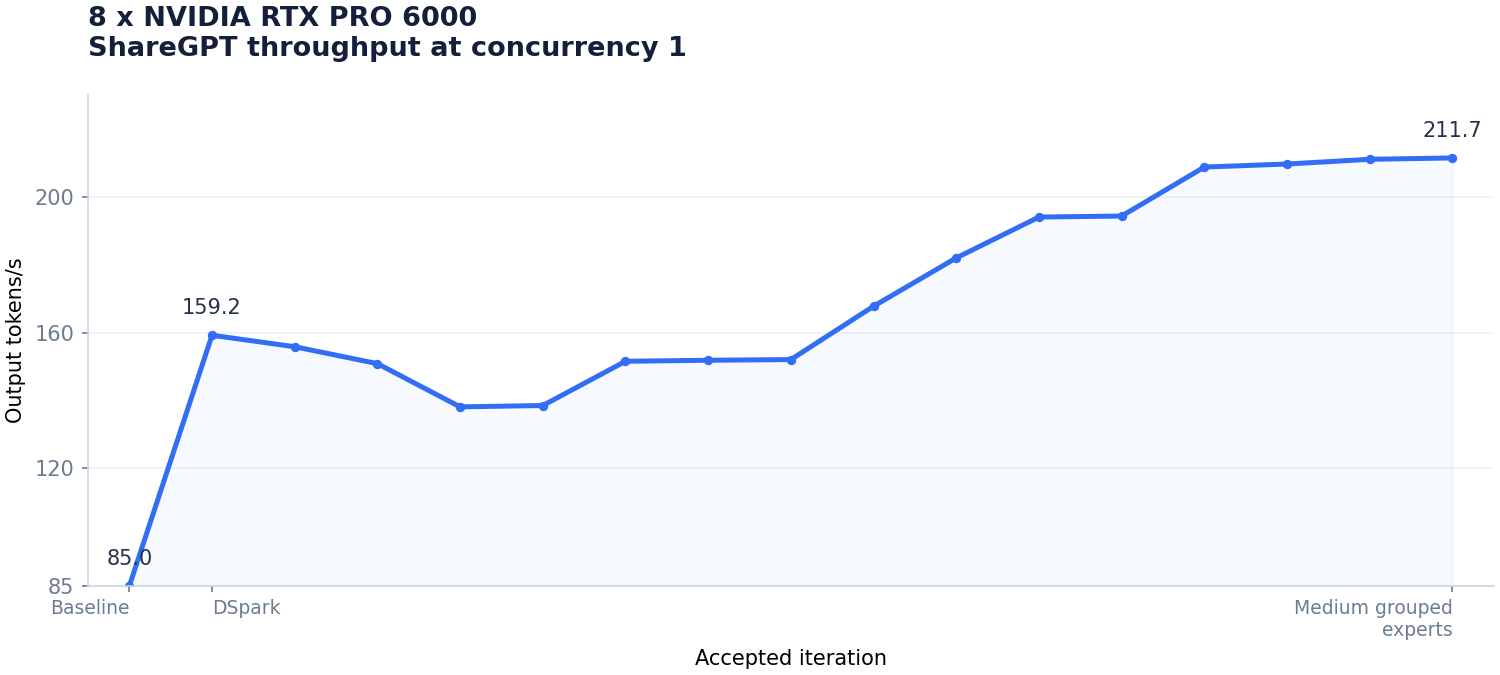
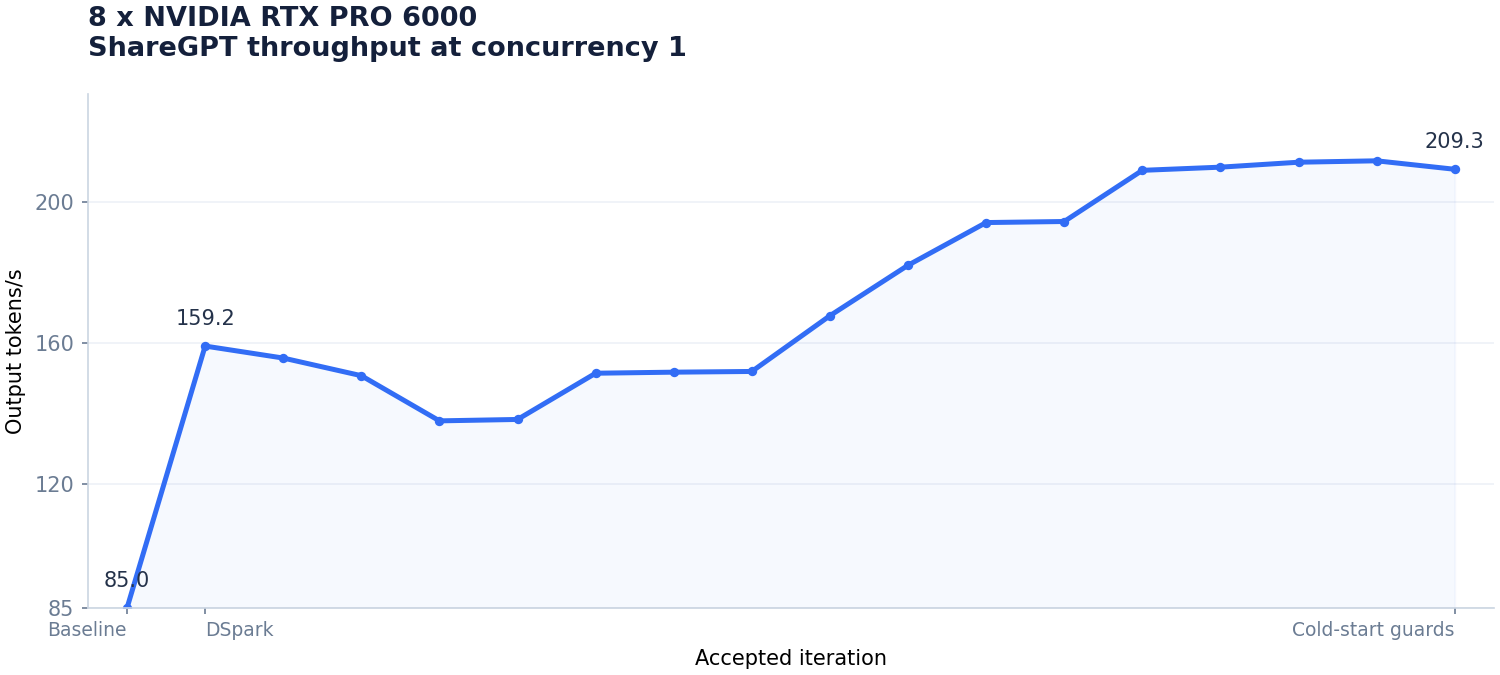
Handle cold collective startup

diff --git a/8-nvidia-rtx-pro-6000/CHANGELOG.md b/8-nvidia-rtx-pro-6000/CHANGELOG.md
@@ -4,10 +4,10 @@ The patch is cumulative against `vllm/vllm-openai:v0.32.0`; every working milest
 
 FlashInfer 0.7.1 replaces the bundled 0.7.0.post1 for runtime page-size support, and both the sm120 compatibility patch and `--block-size 64` are required.
 
-## 17. Medium grouped experts
+## 18. Cold-start guards
 
-- Extend the grouped expert kernels in diff.patch from 16 to 96 tokens to avoid DeepGEMM's 128-row padding for medium batches.
-- Scale routing metadata with the route count and use 8-row GEMM tiles through 48 tokens and 32-row tiles above 48 to keep repeated expert routes efficient.
+- Extend the host collective's bounded peer wait so cold kernel compilation on one rank does not abort the others.
+- Require the checkpoint's 384-entry expert map before using the target MoE fast path to avoid unsupported routing layouts under TP + DP.
 
 Requirements, on a fresh vLLM image:
 
@@ -35,20 +35,20 @@ vllm serve deepseek-ai/DeepSeek-V4.1-Flash-1017 \
     --reasoning-parser deepseek_v41 \
     --mm-encoder-tp-mode data \
     --block-size 64 \
-    --speculative-config '{"method":"dspark","num_speculative_tokens":3,"revision":"1bae0e1088993b9b82de08f59de5be5a34e42170","enable_adaptive_verification":true,"use_local_argmax_reduction":true}' \
+    --speculative-config '{"method": "dspark", "num_speculative_tokens": 3, "revision": "1bae0e1088993b9b82de08f59de5be5a34e42170", "enable_adaptive_verification": true, "use_local_argmax_reduction": true}' \
     --enable-expert-parallel
 ```
 
 | Concurrency | Prompts | Output t/s | p95 TTFT (ms) | p95 TPOT (ms) |
 |---:|---:|---:|---:|---:|
-| 1 | 128 | 211.7 | 127.1 | 5.84 |
-| 4 | 128 | 534.8 | 103.3 | 9.22 |
-| 8 | 128 | 748.9 | 203.4 | 12.36 |
-| 16 | 128 | 1005.0 | 270.9 | 18.53 |
-| 32 | 128 | 1341.9 | 385.5 | 26.98 |
-| 64 | 128 | 1649.4 | 748.4 | 39.14 |
-| 128 | 256 | 2194.5 | 1521.9 | 75.64 |
-| 256 | 512 | 2998.3 | 2817.5 | 136.27 |
+| 1 | 128 | 209.3 | 127.2 | 5.90 |
+| 4 | 128 | 528.4 | 101.7 | 9.47 |
+| 8 | 128 | 732.9 | 220.3 | 12.55 |
+| 16 | 128 | 994.4 | 271.3 | 18.35 |
+| 32 | 128 | 1328.6 | 381.3 | 26.47 |
+| 64 | 128 | 1672.3 | 819.1 | 48.96 |
+| 128 | 256 | 2241.0 | 1455.8 | 74.79 |
+| 256 | 512 | 2953.3 | 2718.6 | 137.01 |
 
 ## Accepted progress
 
@@ -71,3 +71,4 @@ vllm serve deepseek-ai/DeepSeek-V4.1-Flash-1017 \
 | 15 | Wider grouped experts | 209.9 | [`a2b480a`](https://github.com/alvarobartt/DeepSeek-V4.1-Flash-RTX-PRO-6000/tree/a2b480a3526a3a235f7113b630650516733f658f) |
 | 16 | Sharded draft sampling | 211.3 | [`e36008c`](https://github.com/alvarobartt/DeepSeek-V4.1-Flash-RTX-PRO-6000/tree/e36008c9f6a7cd5c1cb9f55e8082ede7341164e5) |
 | 17 | Medium grouped experts | 211.7 | [`ba418b9`](https://github.com/alvarobartt/DeepSeek-V4.1-Flash-RTX-PRO-6000/tree/ba418b932c779f5224cc2657e52a769112cf0917) |
+| 18 | Cold-start guards | 209.3 | This revision |

diff --git a/README.md b/README.md
@@ -15,14 +15,14 @@ Validated serving recipes for four and eight GPUs, using the checkpoint's origin
 
 | Concurrency | Baseline t/s [^8gpu-baseline] | Baseline + DSpark t/s | Current t/s |
 |---:|---:|---:|---:|
-| 1 | 85.0 | 159.2 (+87.3%) | **211.7 (+33.0%)** |
-| 4 | 253.2 | 380.4 (+50.2%) | **534.8 (+40.6%)** |
-| 8 | 375.4 | 496.2 (+32.2%) | **748.9 (+50.9%)** |
-| 16 | 553.1 | 650.5 (+17.6%) | **1005.0 (+54.5%)** |
-| 32 | 657.4 | 954.1 (+45.1%) | **1341.9 (+40.6%)** |
-| 64 | 866.2 | 1185.0 (+36.8%) | **1649.4 (+39.2%)** |
-| 128 | 1242.4 | 1471.9 (+18.5%) | **2194.5 (+49.1%)** |
-| 256 | 1814.1 | 1726.3 (-4.8%) | **2998.3 (+73.7%)** |
+| 1 | 85.0 | 159.2 (+87.3%) | **209.3 (+31.5%)** |
+| 4 | 253.2 | 380.4 (+50.2%) | **528.4 (+38.9%)** |
+| 8 | 375.4 | 496.2 (+32.2%) | **732.9 (+47.7%)** |
+| 16 | 553.1 | 650.5 (+17.6%) | **994.4 (+52.9%)** |
+| 32 | 657.4 | 954.1 (+45.1%) | **1328.6 (+39.3%)** |
+| 64 | 866.2 | 1185.0 (+36.8%) | **1672.3 (+41.1%)** |
+| 128 | 1242.4 | 1471.9 (+18.5%) | **2241.0 (+52.3%)** |
+| 256 | 1814.1 | 1726.3 (-4.8%) | **2953.3 (+71.1%)** |
 
 ![Accepted ShareGPT c1 throughput](8-nvidia-rtx-pro-6000/throughput.png)
 

diff --git a/4-nvidia-rtx-pro-6000/CHANGELOG.md b/4-nvidia-rtx-pro-6000/CHANGELOG.md
@@ -56,4 +56,4 @@ vllm serve deepseek-ai/DeepSeek-V4.1-Flash-1017 \
 |---:|---|---:|---|
 | 0 | Four-GPU baseline | 68.9 | [`98e3fb6`](https://github.com/alvarobartt/DeepSeek-V4.1-Flash-RTX-PRO-6000/tree/98e3fb632bb37dea066d2f7d9cb6f1b4a436cb4d) |
 | 1 | DSpark decoding | 131.3 | [`dee02d3`](https://github.com/alvarobartt/DeepSeek-V4.1-Flash-RTX-PRO-6000/tree/dee02d3567a50684bf4abb462d28390b3c3c9460) |
-| 2 | Ninety-six local experts | 161.5 | This revision |
+| 2 | Ninety-six local experts | 161.5 | [`26ae9ab`](https://github.com/alvarobartt/DeepSeek-V4.1-Flash-RTX-PRO-6000/tree/26ae9abd68d901a24ec36c582ae2c354a34eb81c) |
